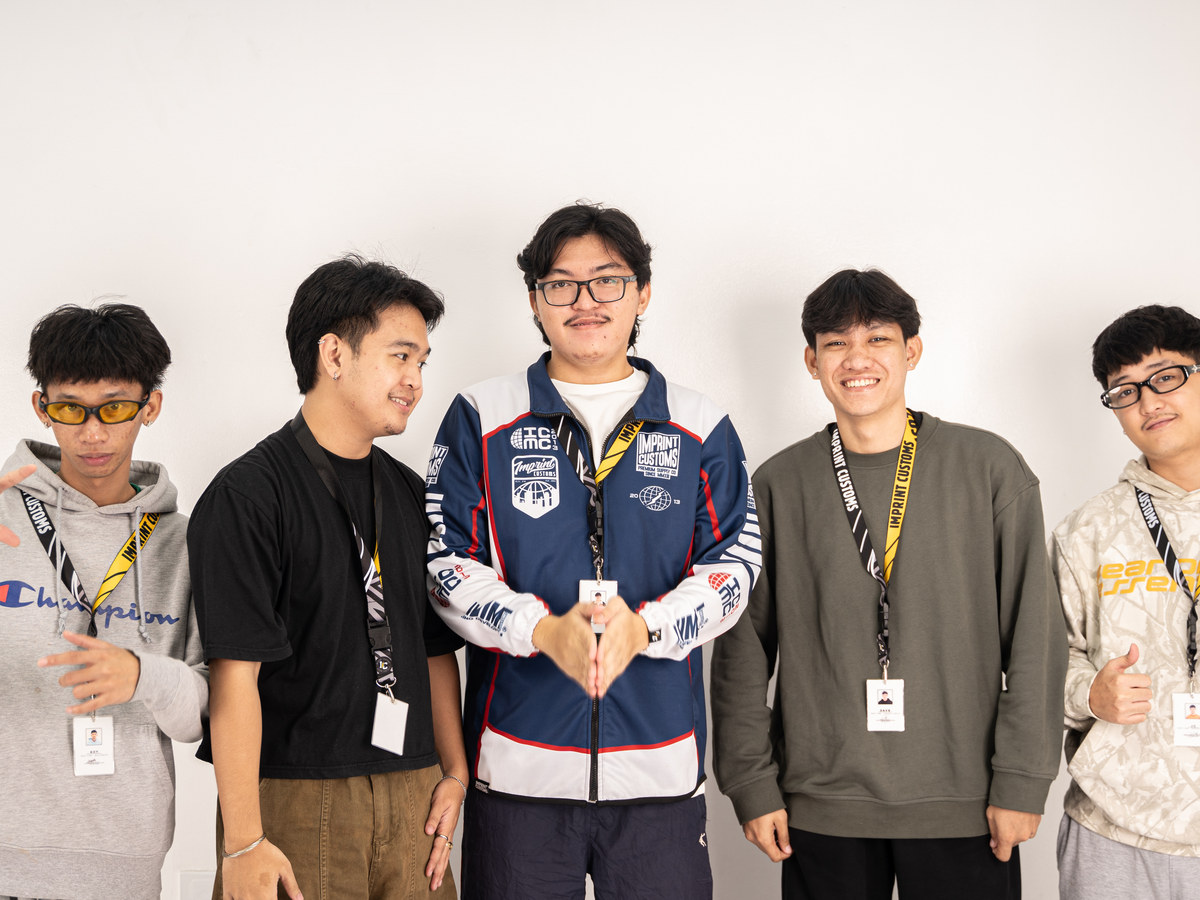
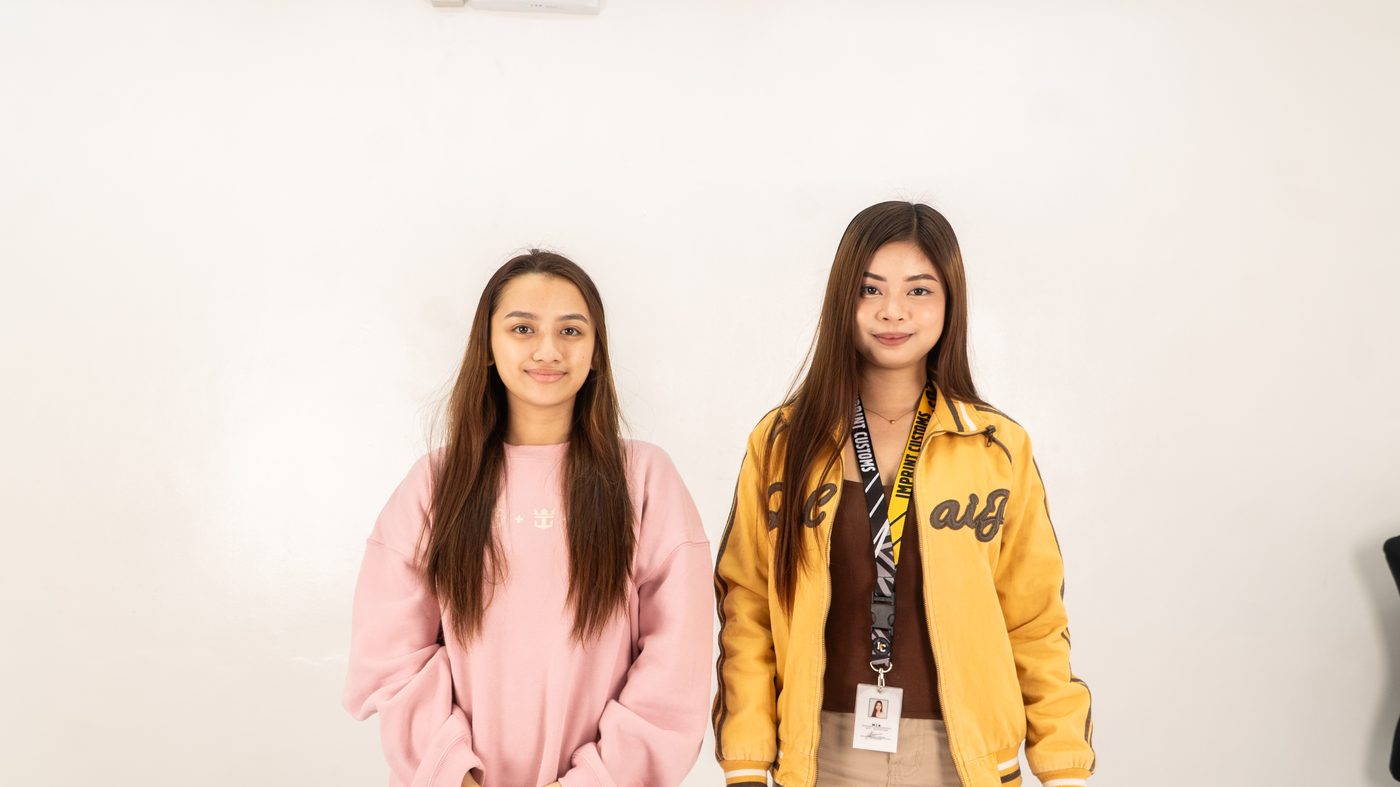
Prove the manager tier holds at its edges, and the OJT shoot
Codex's supervisor-first approval tier works. What it had no test for was
the boundary, and that is the half that matters: a leave reason is usually
medical, so a supervisor who can open another department's requests is
reading things about people who do not report to them. The order being
wrong is a workflow bug; the scope being wrong is a privacy one.

Eight tests, and the scoping holds - another department's people are not
listed, their employee page is refused, their leave cannot be decided, and
an ordinary employee has no team screen at all.

One thing the tests found about the chain: HR cannot finish leave through
the generic people endpoint, because its status guard only knows
pending_hr for overtime and expects plain pending for everything else.
Leave is finished on HR's own leave screen instead, which does handle it,
so the chain completes - but the endpoint would 422 anybody who tried the
other door, and it is the same door overtime uses.

The OJT photographs are in the Our people strip: four portraits and four
wide frames, resized from 2-6 MB camera files to under 150 KB each. One
was left out - a good photograph, but the monitor in it is filled with an
endorsers sheet showing names and rate columns, which is not something to
put on a recruitment page. Two raw camera JPEGs had been copied into
public/ unreferenced and were being served at 6 MB; removed.

diff --git a/tests/Feature/ManagerFirstApprovalTest.php b/tests/Feature/ManagerFirstApprovalTest.php
@@ -1,0 +1,218 @@
+<?php
+
+namespace Tests\Feature;
+
+use App\Models\User;
+use Illuminate\Support\Facades\DB;
+use Tests\TestCase;
+
+/**
+ * Supervisors and leaders review their own team first, then HR.
+ *
+ * The part worth testing hardest is not the happy path but the boundary: a
+ * leave reason is often medical, and a supervisor who can open another
+ * department's requests is reading things about people who do not report to
+ * them. The approval order is a workflow bug; the scope is a privacy one.
+ */
+class ManagerFirstApprovalTest extends TestCase
+{
+    private array $users = [];
+    private array $departments = [];
+    private array $employees = [];
+
+    protected function tearDown(): void
+    {
+        DB::table('leaves')->whereIn('employee_id', $this->employees)->delete();
+        DB::table('overtime_requests')->whereIn('employee_id', $this->employees)->delete();
+        DB::table('shift_assignments')->whereIn('employee_id', $this->employees)->delete();
+        DB::table('employees')->whereIn('employee_id', $this->employees)->delete();
+        DB::table('departments')->whereIn('department_id', $this->departments)->delete();
+        DB::table('users')->whereIn('user_id', $this->users)->delete();
+
+        parent::tearDown();
+    }
+
+    private function department(string $name): int
+    {
+        $id = DB::table('departments')->insertGetId([
+            'department_name' => $name.' '.random_int(100000, 999999),
+            'created_at' => now(), 'updated_at' => now(),
+        ]);
+        $this->departments[] = $id;
+
+        return $id;
+    }
+
+    /** @return array{0: User, 1: int} */
+    private function person(string $name, string $role, ?int $departmentId): array
+    {
+        $n = random_int(100000, 999999);
+
+        $u = User::create([
+            'full_name' => $name, 'username' => "mf{$n}",
+            'email' => "mf{$n}@example.test", 'password' => 'x', 'role' => $role,
+        ]);
+        $this->users[] = $u->user_id;
+
+        $employeeId = DB::table('employees')->insertGetId([
+            'user_id' => $u->user_id, 'job_title' => 'Operator', 'hire_date' => '2026-01-01',
+            'department_id' => $departmentId, 'salary' => 15000, 'status' => 'active',
+            'shift_start' => '08:00:00', 'shift_end' => '17:00:00', 'rest_days' => '7',
+            'created_at' => now(), 'updated_at' => now(),
+        ]);
+        $this->employees[] = $employeeId;
+
+        return [$u, $employeeId];
+    }
+
+    private function supervisorOf(int $departmentId, string $name = 'Team Supervisor'): User
+    {
+        [$u] = $this->person($name, 'supervisor', $departmentId);
+
+        DB::table('departments')->where('department_id', $departmentId)
+            ->update(['supervisor_id' => $u->user_id]);
+
+        return $u;
+    }
+
+    private function leaveFor(int $employeeId, string $status = 'pending'): int
+    {
+        return DB::table('leaves')->insertGetId([
+            'employee_id' => $employeeId, 'leave_type' => 'sick',
+            'start_date' => '2026-10-01', 'end_date' => '2026-10-01', 'total_days' => 1,
+            'status' => $status, 'reason' => 'A private medical matter',
+            'created_at' => now(), 'updated_at' => now(),
+        ]);
+    }
+
+    // ------------------------------------------------------------- the scope
+
+    public function test_a_supervisor_sees_their_own_team(): void
+    {
+        $dept = $this->department('Sewing');
+        $supervisor = $this->supervisorOf($dept);
+        [$member] = $this->person('Their Own Sewer', 'employee', $dept);
+
+        $html = $this->actingAs($supervisor)->get('/employee/team')->assertOk()->getContent();
+
+        $this->assertStringContainsString('Their Own Sewer', $html,
+            'a supervisor cannot see somebody who reports to them');
+    }
+
+    /** The one that matters: somebody else's department is not theirs to read. */
+    public function test_a_supervisor_does_not_see_another_departments_people(): void
+    {
+        $mine = $this->department('Sewing');
+        $theirs = $this->department('Supply Chain');
+
+        $supervisor = $this->supervisorOf($mine);
+        [$outsider] = $this->person('Not Their Report', 'employee', $theirs);
+
+        $html = $this->actingAs($supervisor)->get('/employee/team')->assertOk()->getContent();
+
+        $this->assertStringNotContainsString('Not Their Report', $html,
+            'a supervisor can see people from a department they do not run');
+    }
+
+    public function test_a_supervisor_cannot_open_another_departments_employee(): void
+    {
+        $mine = $this->department('Sewing');
+        $theirs = $this->department('Supply Chain');
+
+        $supervisor = $this->supervisorOf($mine);
+        [, $outsiderId] = $this->person('Other Department Person', 'employee', $theirs);
+
+        $this->actingAs($supervisor)->get('/employee/team/'.$outsiderId)
+            ->assertForbidden();
+    }
+
+    public function test_a_supervisor_cannot_decide_another_departments_leave(): void
+    {
+        $mine = $this->department('Sewing');
+        $theirs = $this->department('Supply Chain');
+
+        $supervisor = $this->supervisorOf($mine);
+        [, $outsiderId] = $this->person('Other Department Person', 'employee', $theirs);
+        $leaveId = $this->leaveFor($outsiderId);
+
+        $this->actingAs($supervisor)
+            ->post('/employee/team/leave/'.$leaveId, ['action' => 'approve'])
+            ->assertForbidden();
+
+        $this->assertSame('pending',
+            DB::table('leaves')->where('leave_id', $leaveId)->value('status'),
+            'a supervisor decided leave for somebody who does not report to them');
+    }
+
+    /** An ordinary employee has no team screen at all. */
+    public function test_an_ordinary_employee_cannot_reach_the_team_screen(): void
+    {
+        $dept = $this->department('Sewing');
+        [$sewer] = $this->person('Ordinary Sewer', 'employee', $dept);
+
+        $this->actingAs($sewer)->get('/employee/team')->assertForbidden();
+    }
+
+    // -------------------------------------------------------------- the order
+
+    public function test_leave_goes_to_the_supervisor_before_hr(): void
+    {
+        $dept = $this->department('Sewing');
+        $supervisor = $this->supervisorOf($dept);
+        [, $memberId] = $this->person('Sewer On Leave', 'employee', $dept);
+        $leaveId = $this->leaveFor($memberId);
+
+        $this->actingAs($supervisor)
+            ->post('/employee/team/leave/'.$leaveId, ['action' => 'approve'])
+            ->assertRedirect();
+
+        $row = DB::table('leaves')->where('leave_id', $leaveId)->first();
+
+        $this->assertSame('pending_hr', $row->status,
+            'the supervisor approving should hand it to HR, not finish it');
+        $this->assertEquals($supervisor->user_id, $row->manager_reviewed_by,
+            'the record does not say who reviewed it first');
+        $this->assertNotNull($row->manager_reviewed_at);
+    }
+
+    /**
+     * A supervisor turning it down ends it. Sending a refusal on to HR would
+     * ask two people to say no to the same request.
+     */
+    public function test_a_supervisor_declining_ends_it(): void
+    {
+        $dept = $this->department('Sewing');
+        $supervisor = $this->supervisorOf($dept);
+        [, $memberId] = $this->person('Sewer On Leave', 'employee', $dept);
+        $leaveId = $this->leaveFor($memberId);
+
+        $this->actingAs($supervisor)->post('/employee/team/leave/'.$leaveId, [
+            'action' => 'reject', 'note' => 'We are short that week.',
+        ])->assertRedirect();
+
+        $this->assertSame('rejected',
+            DB::table('leaves')->where('leave_id', $leaveId)->value('status'));
+    }
+
+    public function test_hr_finishes_what_the_supervisor_passed_on(): void
+    {
+        $hr = User::where('username', 'hr')->first();
+        $dept = $this->department('Sewing');
+        $supervisor = $this->supervisorOf($dept);
+        [, $memberId] = $this->person('Sewer On Leave', 'employee', $dept);
+        $leaveId = $this->leaveFor($memberId);
+
+        $this->actingAs($supervisor)->post('/employee/team/leave/'.$leaveId, ['action' => 'approve']);
+
+        $this->assertSame('pending_hr',
+            DB::table('leaves')->where('leave_id', $leaveId)->value('status'));
+
+        // HR finishes leave on its own screen rather than the generic people
+        // endpoint, which only knows pending_hr for overtime.
+        \Livewire\Volt\Volt::actingAs($hr)->test('hr.leave')->call('approveLeave', $leaveId);
+
+        $this->assertSame('approved',
+            DB::table('leaves')->where('leave_id', $leaveId)->value('status'),
+            'HR could not finish a request the supervisor had passed on');
+    }
+}

diff --git a/app/Support/CareersTeam.php b/app/Support/CareersTeam.php
@@ -20,17 +20,19 @@ class CareersTeam
     {
         $shots = [];
 
-        // Sixteen slots rather than twelve, and twelve rather than six before
-        // that: each shoot - the shop, the barbershop, the gate, and now the
-        // cafe - has arrived with people who had nowhere to stand. Any slot
-        // without a file is simply skipped, so the ceiling costs nothing.
-        for ($i = 1; $i <= 16; $i++) {
+        // Twenty-four slots rather than sixteen, sixteen rather than twelve,
+        // twelve rather than six: each shoot - the shop, the barbershop, the
+        // gate, the cafe, and now the OJTs - has arrived with people who had
+        // nowhere to stand. Any slot without a file is simply skipped, so the
+        // ceiling costs nothing and raising it early costs less than the next
+        // shoot waiting on a code change.
+        for ($i = 1; $i <= 24; $i++) {
             if ($src = CareersMedia::pic('team-'.$i)) {
                 $shots[] = ['src' => $src, 'wide' => false];
             }
         }
 
-        for ($i = 1; $i <= 16; $i++) {
+        for ($i = 1; $i <= 24; $i++) {
             if ($src = CareersMedia::pic('team-group-'.$i)) {
                 $shots[] = ['src' => $src, 'wide' => true];
             }
